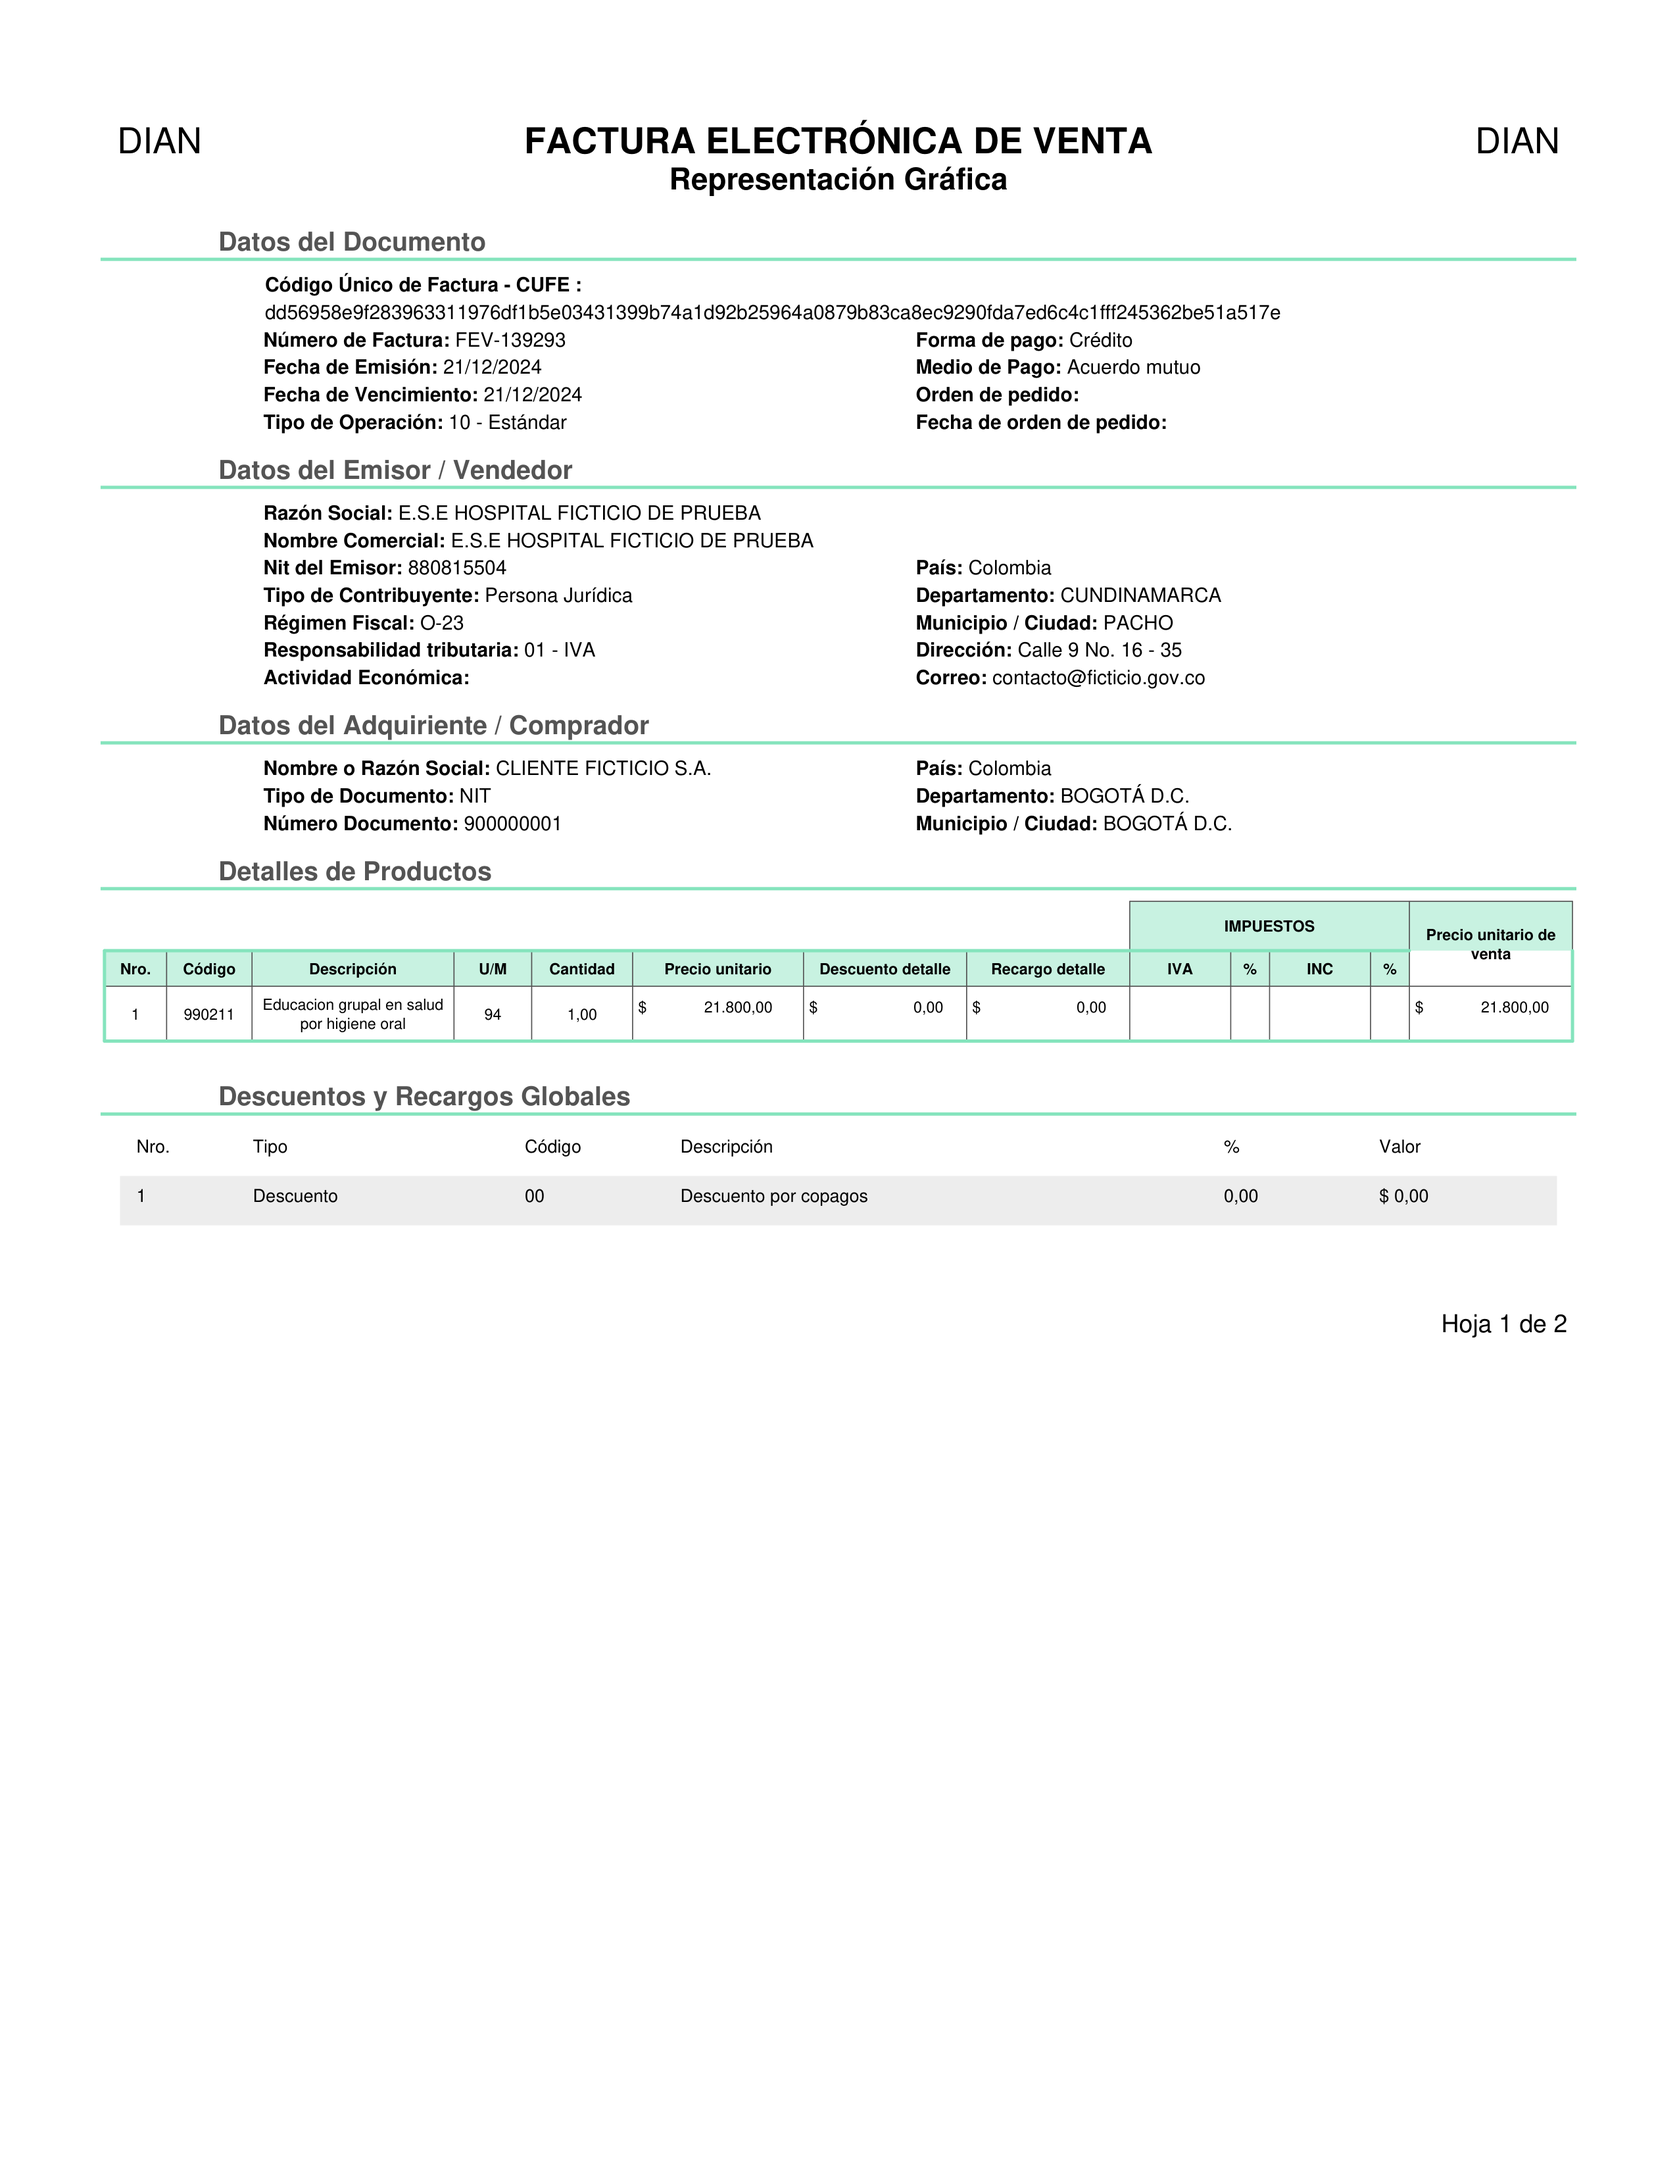
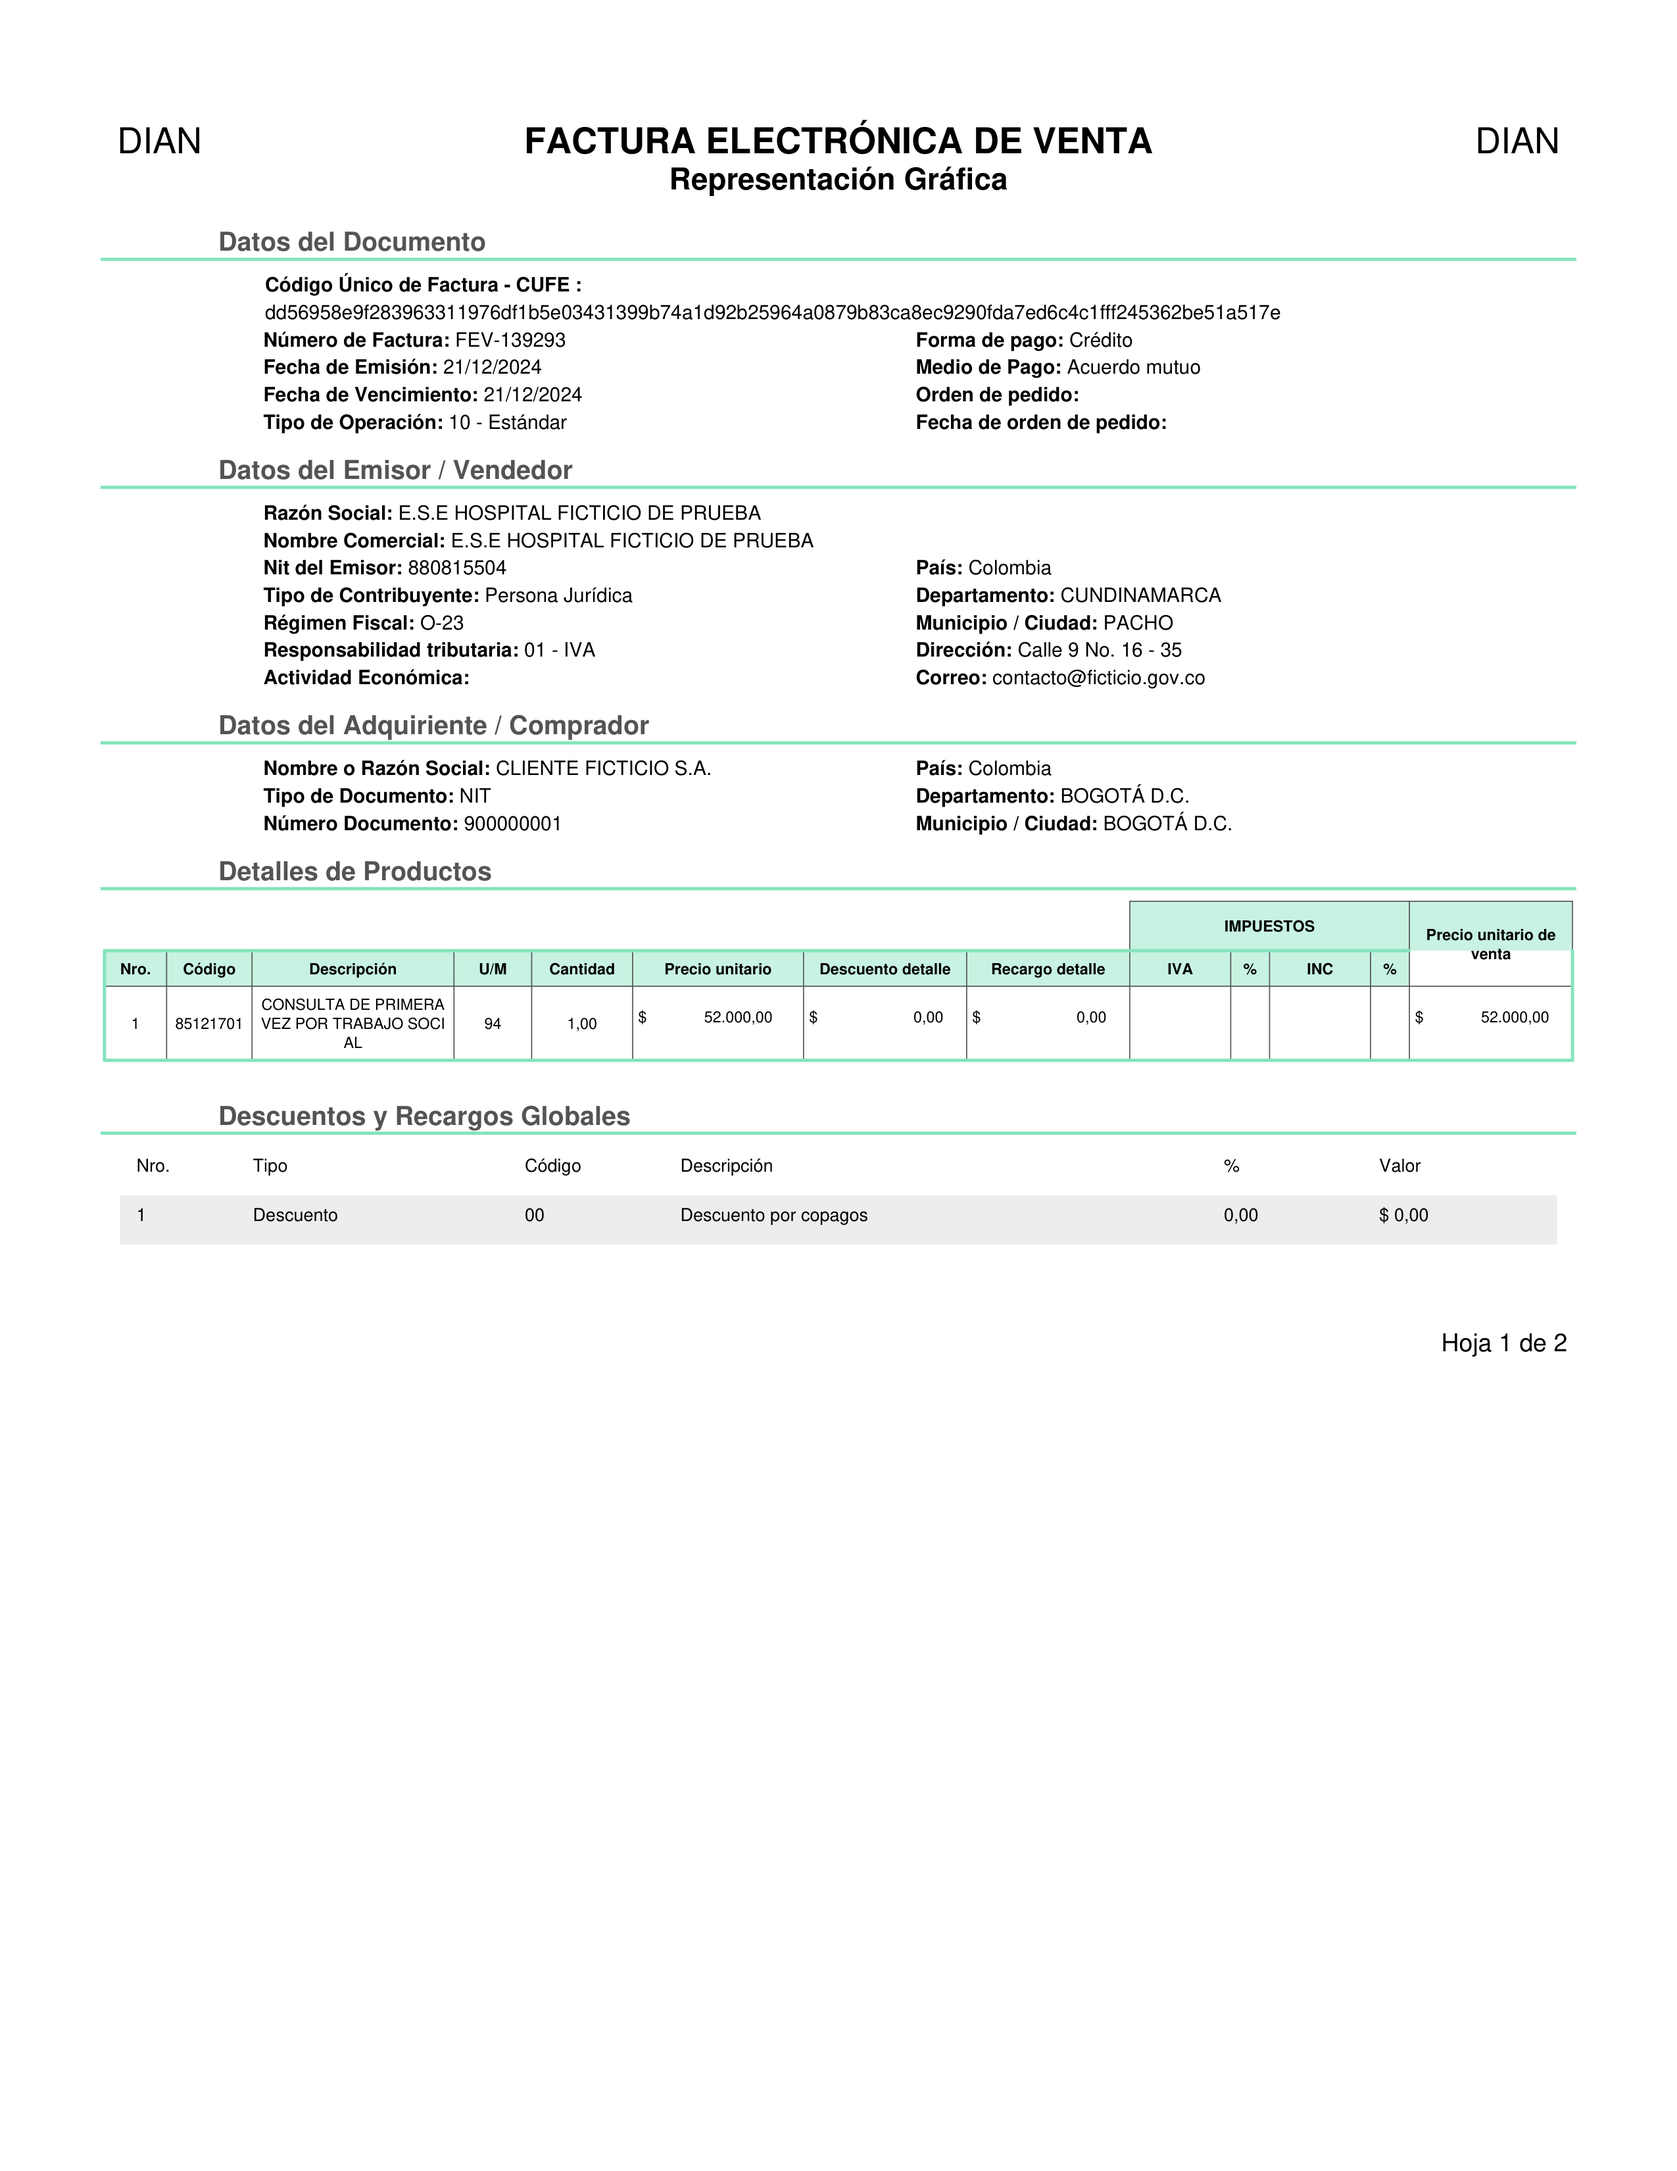
Une palabras partidas entre renglones (diccionario wordfreq), descarta filas sin cantidad ni precio

Changed region(s): [[0.062, 0.437, 0.9294, 0.5618], [0.8675, 0.593, 0.9294, 0.6242]]

diff --git a/src/ocr_facturas.py b/src/ocr_facturas.py
@@ -47,7 +47,7 @@ WL_CODIGO = "ABCDEFGHIJKLMNOPQRSTUVWXYZabcdefghijklmnopqrstuvwxyz0123456789-_./"
 WL_NUMERO = "0123456789.,"
 UMBRAL_CONFIANZA = 80      # confianza media de Tesseract por debajo de esto -> revisión
 UMBRAL_EXACTITUD = 95      # % de coincidencia con la capa de texto por debajo de esto -> revisión
-FIN_TABLA = ("descuentos y recargos", "hoja ", "notas", "datos totales", "subtotal", "total bruto", "valor total",
+FIN_TABLA = ("descuentos y recargos", "referencia", "hoja ", "notas", "datos totales", "subtotal", "total bruto", "valor total",
              "moneda", "total factura", "observaciones", "informacion adicional")
 
 
@@ -58,6 +58,52 @@ def norm(s: str) -> str:
     """minúsculas sin tildes, para comparar etiquetas sin depender del OCR de acentos."""
     s = unicodedata.normalize("NFKD", s)
     return "".join(c for c in s if not unicodedata.combining(c)).lower()
+
+
+_VOCAB: dict | None = None
+
+
+def _vocabulario() -> dict:
+    """Frecuencia (escala Zipf) de palabras en español, sin tildes. Usa wordfreq si está."""
+    global _VOCAB
+    if _VOCAB is None:
+        _VOCAB = {}
+        try:
+            from wordfreq import iter_wordlist, zipf_frequency
+            for w in iter_wordlist("es"):
+                k = norm(w)
+                if k.isalpha() and k not in _VOCAB:
+                    _VOCAB[k] = zipf_frequency(w, "es")
+        except ImportError:
+            log.warning("wordfreq no está instalado: no se unirán palabras partidas entre renglones")
+    return _VOCAB
+
+
+def _debe_unir(a: str, b: str) -> bool:
+    """¿El salto de renglón entre a y b partió una palabra? La DIAN corta el texto de la
+    celda por caracteres ("FUNCIO|NAL", "V|EZ", "PSICOL|OGO")."""
+    va, vb = re.sub(r"\W", "", norm(a)), re.sub(r"\W", "", norm(b))
+    if not va or not vb or not (va.isalpha() and vb.isalpha()):
+        return False
+    voc = _vocabulario()
+    if not voc:
+        return False
+    if len(vb) == 1 and vb not in ("y", "o", "a", "e", "u"):
+        return True                                     # "HEMOCLASIFICACIO|N"
+    f = lambda w: voc.get(w, 0.0)
+    fab = f(va + vb)
+    return fab >= 1.5 and fab > min(f(va), f(vb))       # la palabra unida es más común que el pedazo raro
+
+
+def unir_renglones(lineas: list[str]) -> str:
+    lineas = [l.strip() for l in lineas if l and l.strip()]
+    if not lineas:
+        return ""
+    texto = lineas[0]
+    for sig in lineas[1:]:
+        a, b = texto.split()[-1], sig.split()[0]
+        texto = texto + sig if _debe_unir(a, b) else texto + " " + sig
+    return texto
 
 
 def a_numero(txt: str) -> float | None:
@@ -337,7 +383,7 @@ def releer_descripcion(img_bin: np.ndarray, x0: int, y0: int, x1: int, y1: int) 
     celda = cv2.resize(celda, None, fx=2, fy=2, interpolation=cv2.INTER_CUBIC)
     celda = cv2.copyMakeBorder(celda, 20, 20, 20, 20, cv2.BORDER_CONSTANT, value=255)
     txt = pytesseract.image_to_string(celda, lang="spa", config="--oem 1 --psm 6")
-    return re.sub(r"\s+", " ", txt).strip(" |_")
+    return "\n".join(l.strip(" |_") for l in txt.splitlines() if l.strip(" |_"))
 
 
 def extraer_tabla(filas: list[list[Palabra]], img_bin: np.ndarray | None,
@@ -406,9 +452,11 @@ def extraer_tabla(filas: list[list[Palabra]], img_bin: np.ndarray | None,
             break
 
         def texto(j):
-            ps = [p for r in agrupar_filas(celdas.get(j, [])) for p in r]   # renglones de la celda, en orden
-            return " ".join(p.texto for p in ps if not re.fullmatch(r"[.,;:'`´~\-]", p.texto)
-                            and not (len(p.texto) == 1 and p.texto.islower() and p.conf < 60)).strip()
+            renglones = []
+            for r in agrupar_filas(celdas.get(j, [])):                       # renglones de la celda, en orden
+                renglones.append(" ".join(p.texto for p in r if not re.fullmatch(r"[.,;:'`´~\-]", p.texto)
+                                          and not (len(p.texto) == 1 and p.texto.islower() and p.conf < 60)))
+            return unir_renglones(renglones) if j == c["des"] else " ".join(renglones).strip()
 
         if limpia is not None:
             for cj, wl in ((c["cod"], WL_CODIGO), (c["can"], WL_NUMERO), (c["pre"], WL_NUMERO)):
@@ -426,13 +474,15 @@ def extraer_tabla(filas: list[list[Palabra]], img_bin: np.ndarray | None,
             a, b = intervalos[c["des"]]
             r = releer_descripcion(limpia, int(a) + 2, int(ya) + 2, int(b) - 2, int(yb) - 2)
             actual = " ".join(p.texto for p in celdas[c["des"]])
-            if r and len(r.split()) >= len(actual.split()) and len(r) >= 0.8 * len(actual):
-                celdas[c["des"]] = [Palabra(w, a + k, ya, a + k + 1, ya + 1, 100) for k, w in enumerate(r.split())]
+            if r and len(r.split()) >= len(actual.split()) and len(r.replace("\n", " ")) >= 0.8 * len(actual):
+                # un Palabra por palabra, con un "y" distinto por renglón para conservar los saltos
+                celdas[c["des"]] = [Palabra(w, a + k, ya + n * alto * 3, a + k + 1, ya + n * alto * 3 + alto, 100)
+                                    for n, linea in enumerate(r.splitlines()) for k, w in enumerate(linea.split())]
 
         item = {"codigo": texto(c["cod"]), "descripcion": texto(c["des"]),
                 "cantidad": a_numero(texto(c["can"])), "precio_unitario": a_numero(texto(c["pre"]))}
-        if item["descripcion"] or item["cantidad"] is not None or item["precio_unitario"] is not None:
-            items.append(item)
+        if item["cantidad"] is not None or item["precio_unitario"] is not None:
+            items.append(item)                       # una fila de producto siempre trae cantidad o precio
     return items
 
 

diff --git a/tests/generar_factura_dian_real.py b/tests/generar_factura_dian_real.py
@@ -20,6 +20,9 @@ from reportlab.platypus import PageBreak, Paragraph, SimpleDocTemplate, Spacer, 
 OUT = Path(__file__).parent / "muestras_formato_dian"
 VERDE, VERDE_CLARO = colors.HexColor("#86E5BE"), colors.HexColor("#C8F3E1")
 SERVICIOS = [
+    ("938662", "REHABILITACION FUNCIONAL DE LA DEFICIENCIA DISCAPACIDAD DEFINITIVA SEVERA"),
+    ("911015", "CPN HEMOCLASIFICACION"),
+    ("902207", "CPN HEMOGRAMA I (HEMOGLOBINA HEMATOCRITO Y LEUCOGRAMA) MANUAL"),
     ("", "Consulta De Primera Vez Por Medicina General"),
     ("85121701", "CONSULTA DE PRIMERA VEZ POR TRABAJO SOCIAL"),
     ("85121701", "VALORACION POR PSICOLOGO"),
@@ -33,6 +36,20 @@ st_lab = ParagraphStyle("lab", fontName="Helvetica", fontSize=7.2, leading=10)
 st_sec = ParagraphStyle("sec", fontName="Helvetica-Bold", fontSize=9.5, textColor=colors.HexColor("#555555"), leftIndent=14 * mm)
 st_celda = ParagraphStyle("c", fontName="Helvetica", fontSize=5.6, leading=7, alignment=1)
 st_enc = ParagraphStyle("e", fontName="Helvetica-Bold", fontSize=5.6, leading=7, alignment=1)
+
+
+def cortar_como_dian(texto, ancho_mm, fuente="Helvetica", tam=5.6):
+    """La DIAN parte el texto de la celda por caracteres, aunque quede a mitad de palabra."""
+    from reportlab.pdfbase.pdfmetrics import stringWidth
+    lineas, actual = [], ""
+    for ch in texto:
+        if stringWidth(actual + ch, fuente, tam) > ancho_mm * mm - 3:
+            lineas.append(actual)
+            actual = ch
+        else:
+            actual += ch
+    lineas.append(actual)
+    return "<br/>".join(l.strip() for l in lineas)
 
 
 def cop(v):
@@ -98,7 +115,7 @@ def factura(i, rnd):
     for n, (cod, desc) in enumerate(rnd.sample(SERVICIOS, rnd.randint(1, 4)), 1):
         cant = float(rnd.choice([1, 1, 1, 2, 3]))
         pu = float(rnd.choice([21800, 28800, 52000, 9500, 135000, 7850.5]))
-        data.append([Paragraph(str(n), st_celda), Paragraph(cod, st_celda), Paragraph(desc, st_celda), Paragraph("94", st_celda),
+        data.append([Paragraph(str(n), st_celda), Paragraph(cod, st_celda), Paragraph(cortar_como_dian(desc, 26), st_celda), Paragraph("94", st_celda),
                      Paragraph(cop(cant), st_celda), precio(pu), precio(0), precio(0), "", "", "", "", precio(pu)])
         esperado.append(dict(archivo=f"dian_formato_{i:02d}", numero_factura=numero,
                              fecha_emision="-".join(reversed(fecha.split("/"))), nit_emisor=nit,

diff --git a/evidencias_pruebas/LEEME.md b/evidencias_pruebas/LEEME.md
@@ -11,7 +11,7 @@
 | `1_simulacion_portal/` | Flujo completo del RPA contra una **simulación local** que imita el portal: Turnstile con clic, NIT, modal «Aceptar», PDF protegido; luego desbloqueo + OCR. Incluye bitácora, evidencia del caso "no encontrado", resumen y `metricas.prom`. | `HEADLESS=1 python tests/test_rpa_mock.py --conservar <carpeta>` |
 | `2_ocr_pdf_digital/` | OCR sobre 5 facturas ficticias con la estructura DIAN (PDF digital). CSV por factura + consolidado, métricas por archivo, precisión/recall/F1. | `python main.py ocr --pdfs tests/muestras --salida <carpeta>` + `python tests/evaluar.py <carpeta>` |
 | `3_ocr_escaneo_simulado/` | Las mismas facturas degradadas como escaneo (200 dpi, ruido, JPEG 70 %, 0,4° de inclinación). Muestra los errores reales del OCR y cómo el umbral de calidad marca para revisión la factura afectada. | `python main.py ocr --pdfs tests/muestras_escaneadas --salida <carpeta>` + `python tests/evaluar.py <carpeta>` |
-| `4_ocr_formato_dian_replica/` | Réplica ficticia del formato **real** de la DIAN (letra de 5-6 pt, franja «IMPUESTOS», «$» separado, código vacío, sección «Descuentos y Recargos Globales», hoja 2 de totales), construida a partir de facturas reales descargadas por el RPA. F1 = 1,000. | `python tests/generar_factura_dian_real.py` + `python main.py ocr --pdfs tests/muestras_formato_dian --salida <carpeta>` + `python tests/evaluar.py <carpeta> tests/muestras_formato_dian/esperado.csv` |
+| `4_ocr_formato_dian_replica/` | Réplica ficticia del formato **real** de la DIAN (letra de 5-6 pt, franja «IMPUESTOS», «$» separado, código vacío, sección «Descuentos y Recargos Globales», hoja 2 de totales), construida a partir de facturas reales descargadas por el RPA. F1 = 0,976 (los únicos errores son de lectura del OCR, p. ej. «I» romana leída como «1»). | `python tests/generar_factura_dian_real.py` + `python main.py ocr --pdfs tests/muestras_formato_dian --salida <carpeta>` + `python tests/evaluar.py <carpeta> tests/muestras_formato_dian/esperado.csv` |
 
 Las carpetas `imagenes/` conservan una sola imagen de ejemplo para no inflar el repositorio.
 Equipo de las mediciones: 2 vCPU, sin GPU; los tiempos varían según el equipo.
